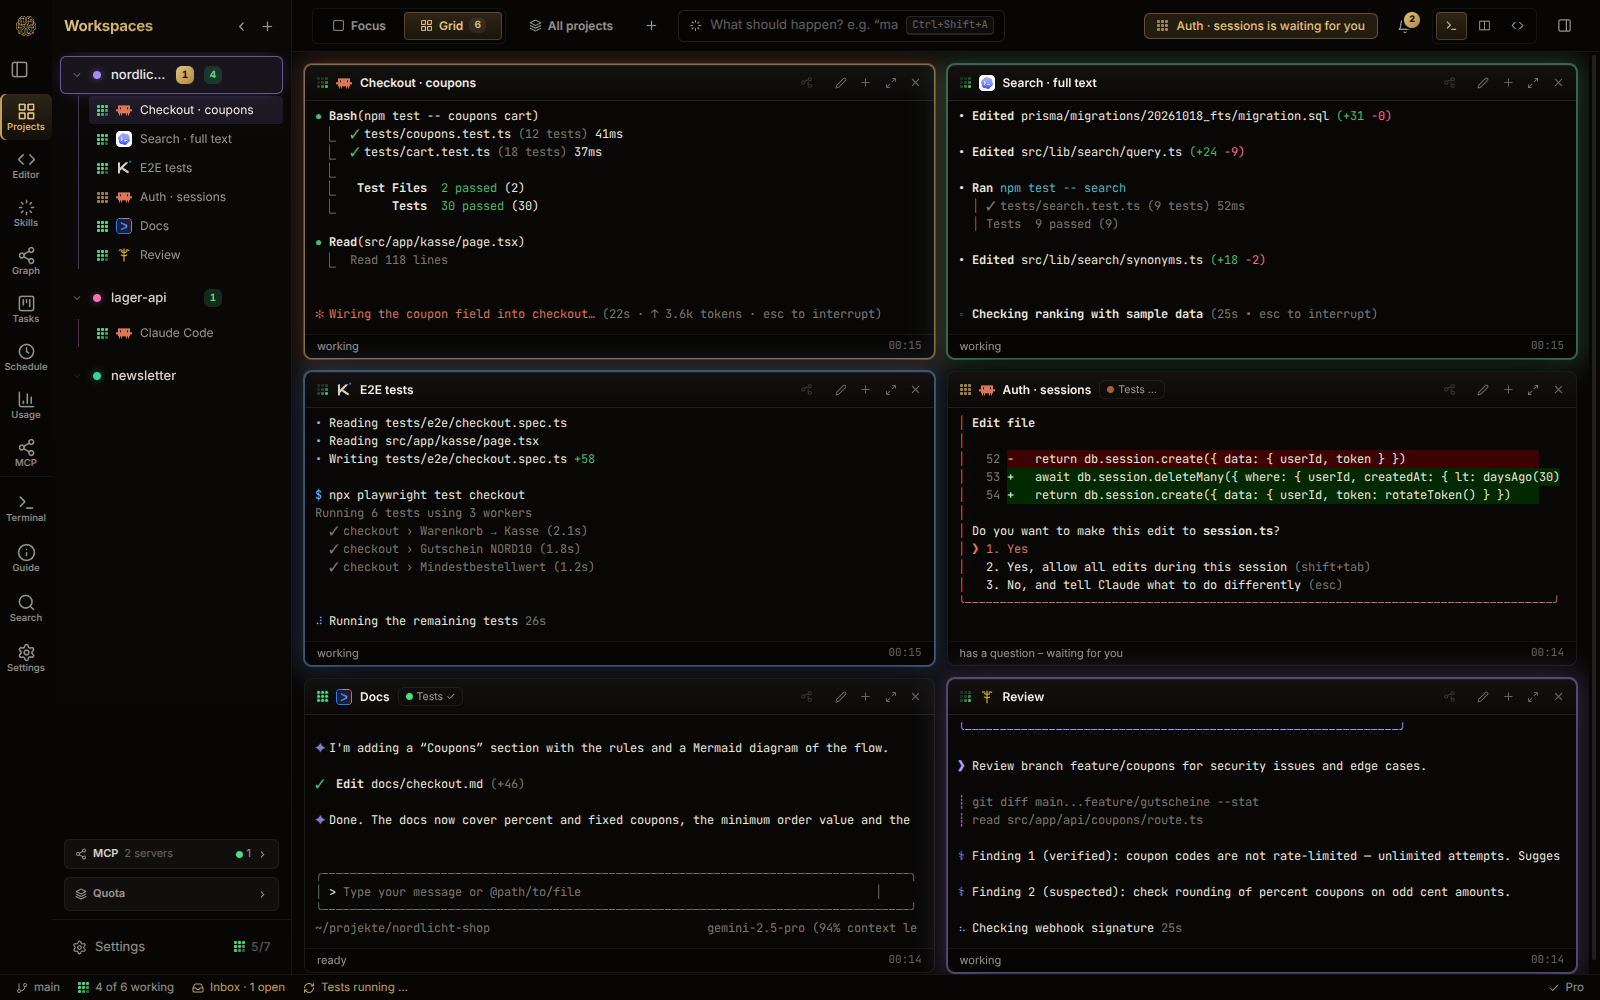
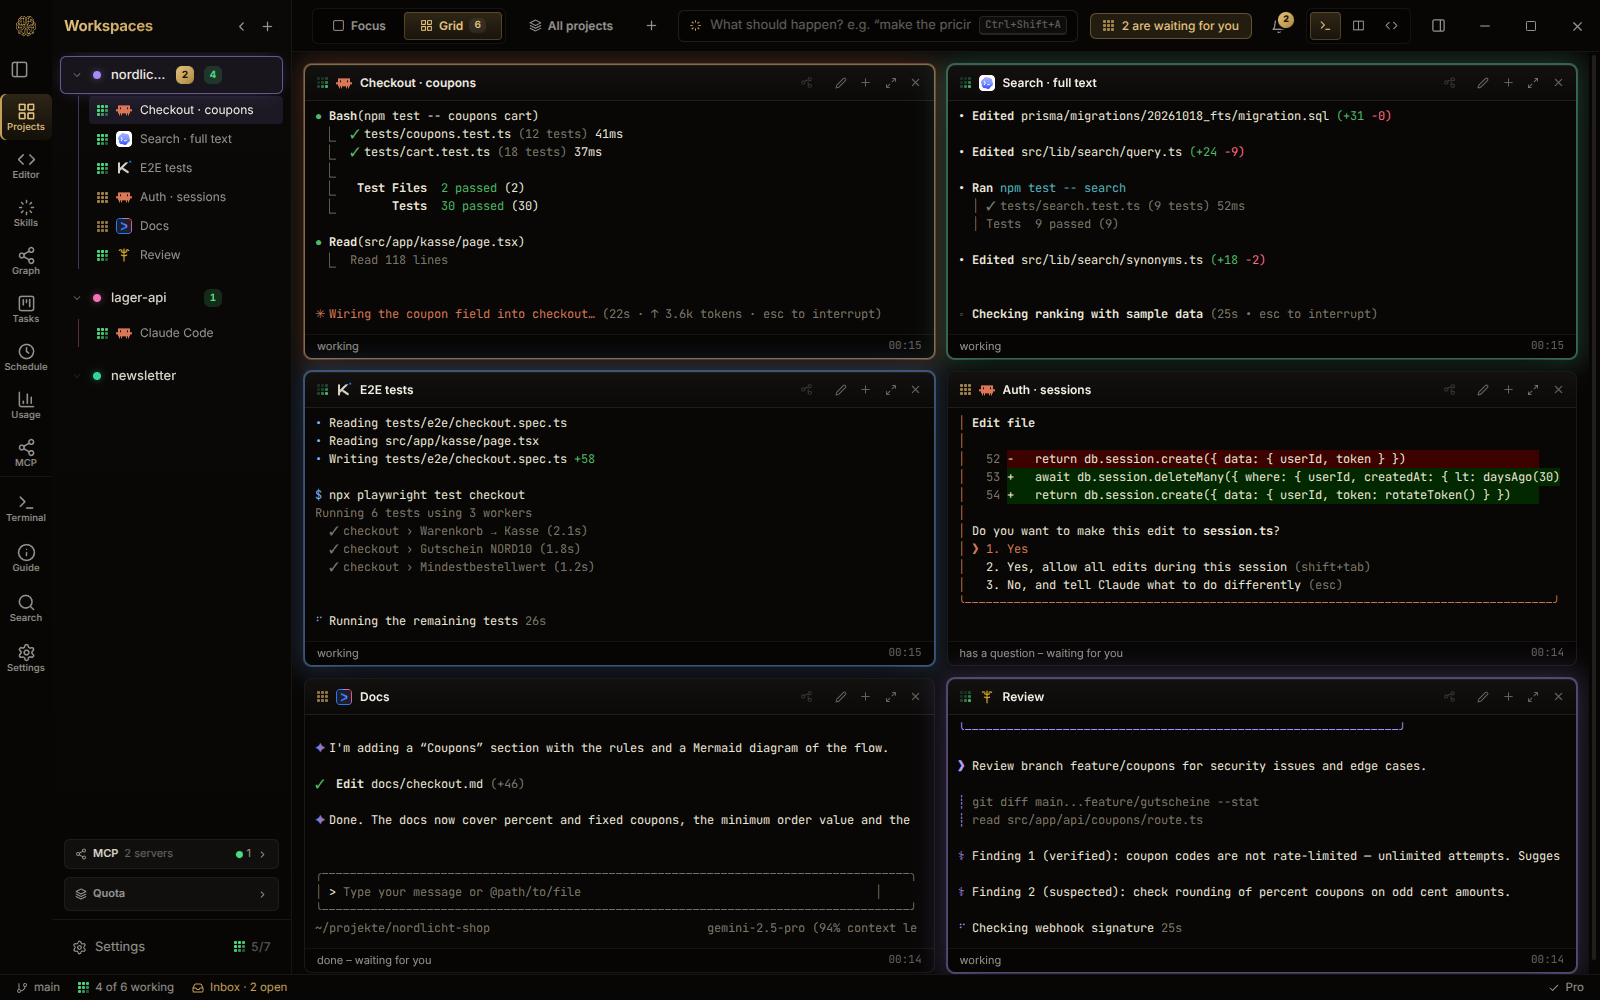
README: animated neuron view and five new screenshots
Claude-Session: https://claude.ai/code/session_01RVLcR9e71DkqdsBtEAMCav

Changed region(s): [[0.5625, 0.0, 0.9375, 0.062], [0.1562, 0.961, 0.25, 0.992], [0.25, 0.682, 0.2812, 0.713]]

diff --git a/README.de.md b/README.de.md
@@ -21,7 +21,28 @@ Lokal. Ohne Telemetrie. Ohne Konto bei uns. Einmal kaufen.
 - **Arbeit, die bleibt.** Sessions überleben den Neustart, Checkpoints führen zurück, geplante Aufträge und Nachtaufträge laufen im eigenen Arbeitsbaum und hinterlassen einen Bericht.
 - **Dein Verbrauch, zusammengezählt.** Tokens aller CLIs aus ihren lokalen Protokollen, je Tag, Modell und Projekt.
 
-![Live-Graph der Agenten-Aktivität](docs/img/graph.png)
+
+## Ein Blick hinein
+
+![Neuronen](docs/img/neurons.webp)
+
+Neuronen: Jeder Agent ist ein Ring an dem Ordner, in dem er arbeitet. Impulse laufen in seiner Farbe über die Äste, wenn er eine Datei liest oder ändert.
+
+![Der Orchestrator verteilt Aufträge und meldet, was fertig ist, was scheiterte und was du entscheiden musst.](docs/img/orchestrator.png)
+
+Der Orchestrator verteilt Aufträge und meldet, was fertig ist, was scheiterte und was du entscheiden musst.
+
+![Guardrails](docs/img/guardrail.png)
+
+Guardrails: Ein Push zum Server wartet auf deine Freigabe.
+
+![Kosmos](docs/img/cosmos.png)
+
+Kosmos: das Projekt als Karte, mit jeder Datei, die ein Agent heute angefasst hat.
+
+![Editor](docs/img/editor.png)
+
+Editor: Dateien des Projekts lesen und ändern, ohne die App zu verlassen.
 
 ## Datenschutz
 

diff --git a/README.md b/README.md
@@ -21,7 +21,28 @@ Local. No telemetry. No account with us. One-time purchase.
 - **Work that survives.** Sessions resume after a restart, checkpoints let you jump back, scheduled and overnight tasks run in their own worktree and leave a report.
 - **Your usage, added up.** Tokens of all CLIs from their local logs, per day, model and project.
 
-![Live graph of agent activity](docs/img/graph.png)
+
+## A look inside
+
+![Neurons](docs/img/neurons.webp)
+
+Neurons: every agent is a ring at the folder it works in. Pulses run along the branches in the agent's colour when it reads or changes a file.
+
+![The orchestrator hands out tasks and reports back what is done, what failed and what needs your decision.](docs/img/orchestrator.png)
+
+The orchestrator hands out tasks and reports back what is done, what failed and what needs your decision.
+
+![Guardrails](docs/img/guardrail.png)
+
+Guardrails: a push to the remote waits for your approval.
+
+![Cosmos](docs/img/cosmos.png)
+
+Cosmos: the project as a map, with every file an agent touched today.
+
+![Editor](docs/img/editor.png)
+
+Editor: read and change the project's files without leaving the app.
 
 ## Privacy
 
